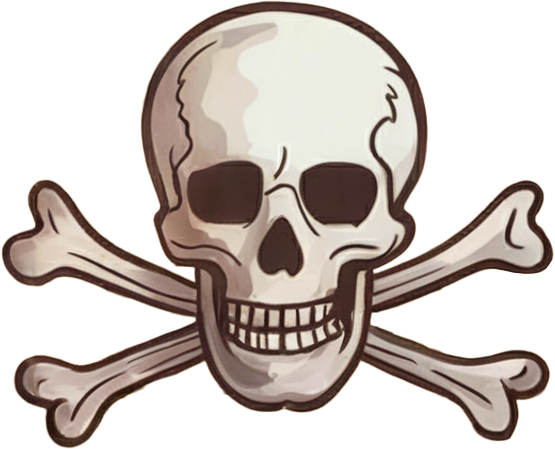
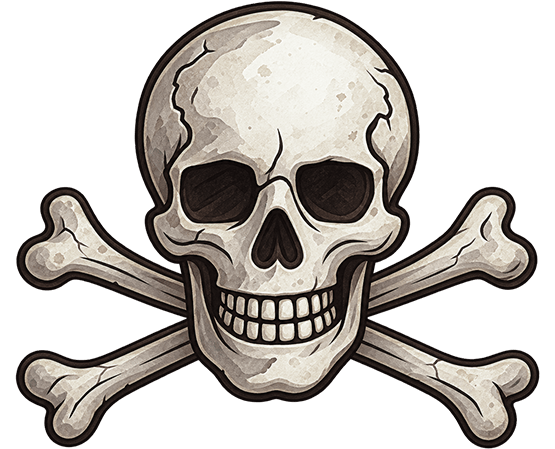
Bilingual update - English added

diff --git a/script.js b/script.js
@@ -18,15 +18,109 @@ document.addEventListener('DOMContentLoaded', () => {
   const restartBtnOverlay = document.getElementById('restart-btn-overlay');
   const confettiCanvas = document.getElementById('confetti-canvas');
 
-  // Ensure scoreboard has logo + players container (defensive)
-  ensureScoreboardShell();
+  // Language / setup refs
+  const languageToggle = document.getElementById('language-toggle');
+  const setupLogo = document.getElementById('setup-logo');
+  const difficultyLabel = document.getElementById('difficulty-label');
+  const difficultyEasy = document.getElementById('difficulty-easy');
+  const difficultyNormal = document.getElementById('difficulty-normal');
+  const playersLabel = document.getElementById('players-label');
+  const startBtn = document.getElementById('start-btn');
+  const languageEs = document.getElementById('language-es');
+  const languageEn = document.getElementById('language-en');
 
   // ---- Config ----
   const totalTiles = 36; // 6x6
-  // Assets (your latest versions)
   const trapImg  = '/treasure/images/skull-25.png';
   const chestImg = '/treasure/images/treasure-25.png';
-  const logoSrc  = '/treasure/images/logo.png';
+  const logos = {
+    es: '/treasure/images/logo-es.png',
+    en: '/treasure/images/logo-en.png'
+  };
+
+  const translations = {
+    es: {
+      title: 'Isla del Tesoro',
+      difficulty: 'Nivel:',
+      easy: 'Fácil (1-99)',
+      normal: 'Normal (100-999)',
+      players: 'Número de jugadores:',
+      player: 'Jugador',
+      start: 'Inicio',
+      restart: 'Jugar de nuevo',
+      fullscreen: 'Pantalla completa',
+      treasure: 'Tesoro',
+      trap: 'Trampa',
+      currency: '€',
+      singleTrapLoss: name => `¡Juego terminado! ${name} encontró una trampa y perdió.`,
+      winner: (name, score) => `¡Victoria! ${name} gana con €${score}`
+    },
+    en: {
+      title: 'Treasure Island',
+      difficulty: 'Difficulty:',
+      easy: 'Easy (1-99)',
+      normal: 'Normal (100-999)',
+      players: 'Number of players:',
+      player: 'Player',
+      start: 'Start',
+      restart: 'Play again',
+      fullscreen: 'Full screen',
+      treasure: 'Treasure',
+      trap: 'Trap',
+      currency: '£',
+      singleTrapLoss: name => `Game over! ${name} found a trap and lost.`,
+      winner: (name, score) => `Victory! ${name} wins with £${score}`
+    }
+  };
+
+  let currentLanguage = sessionStorage.getItem('treasureLanguage') === 'en' ? 'en' : 'es';
+
+  function t(key) {
+    return translations[currentLanguage][key];
+  }
+
+  function applyLanguage() {
+    const isEnglish = currentLanguage === 'en';
+    document.documentElement.lang = currentLanguage;
+    document.title = t('title');
+
+    if (languageToggle) {
+      languageToggle.checked = isEnglish;
+      languageToggle.setAttribute('aria-label', isEnglish ? 'Switch language to Spanish' : 'Switch language to English');
+    }
+    languageEs?.classList.toggle('active', !isEnglish);
+    languageEn?.classList.toggle('active', isEnglish);
+
+    if (difficultyLabel) difficultyLabel.textContent = t('difficulty');
+    if (difficultyEasy) difficultyEasy.textContent = t('easy');
+    if (difficultyNormal) difficultyNormal.textContent = t('normal');
+    if (playersLabel) playersLabel.textContent = t('players');
+    if (startBtn) startBtn.textContent = t('start');
+    if (restartBtnOverlay) restartBtnOverlay.textContent = t('restart');
+    if (fsBtn) fsBtn.title = t('fullscreen');
+
+    if (setupLogo) {
+      setupLogo.src = logos[currentLanguage];
+      setupLogo.alt = t('title');
+    }
+    const scoreLogo = scoreboard?.querySelector('.scoreboard-logo');
+    if (scoreLogo) {
+      scoreLogo.src = logos[currentLanguage];
+      scoreLogo.alt = t('title');
+    }
+
+    document.querySelectorAll('.player-name').forEach((input, i) => {
+      input.placeholder = `${t('player')} ${i + 1}`;
+    });
+
+    if (players.length) renderScoreboard();
+  }
+
+  languageToggle?.addEventListener('change', () => {
+    currentLanguage = languageToggle.checked ? 'en' : 'es';
+    sessionStorage.setItem('treasureLanguage', currentLanguage);
+    applyLanguage();
+  });
 
   // ---- Game state ----
   let trapCount = 0;
@@ -36,6 +130,10 @@ document.addEventListener('DOMContentLoaded', () => {
   let currentPlayerIndex = 0;
   let turns = 0;
   let gameEnded = false;
+
+  // Ensure scoreboard has logo + players container (defensive)
+  ensureScoreboardShell();
+  applyLanguage();
 
   // ---- Setup inputs ----
   generatePlayerNameFields(parseInt(playerCountDropdown.value, 10));
@@ -63,7 +161,7 @@ document.addEventListener('DOMContentLoaded', () => {
       const input = document.createElement('input');
       input.type = 'text';
       input.classList.add('player-name');
-      input.placeholder = `Jugador ${i + 1}`;
+      input.placeholder = `${t('player')} ${i + 1}`;
       playerNamesContainer.appendChild(input);
     }
   }
@@ -97,7 +195,7 @@ document.addEventListener('DOMContentLoaded', () => {
     const numPlayers = parseInt(playerCountDropdown.value, 10);
 
     players = Array.from(document.querySelectorAll('.player-name'), (input, i) => ({
-      name: input.value || `Jugador ${i + 1}`,
+      name: input.value || `${t('player')} ${i + 1}`,
       score: 0,
       skipTurn: false
     }));
@@ -141,7 +239,7 @@ document.addEventListener('DOMContentLoaded', () => {
 
     const list = players.map((p, i) =>
       `<div class="player ${i === currentPlayerIndex ? 'current-player' : ''} ${p.skipTurn ? 'skipping' : ''}">
-         ${p.name}: €${p.score}
+         ${p.name}: ${t('currency')}${p.score}
        </div>`
     ).join('');
 
@@ -151,7 +249,7 @@ document.addEventListener('DOMContentLoaded', () => {
     } else {
       // Fallback: ensure shell exists if missing
       scoreboard.innerHTML = `
-        <img src="${logoSrc}" alt="Isla del Tesoro" class="scoreboard-logo" />
+        <img src="${logos[currentLanguage]}" alt="${t('title')}" class="scoreboard-logo" />
         <div class="players">${list}</div>
       `;
     }
@@ -191,10 +289,10 @@ document.addEventListener('DOMContentLoaded', () => {
       const val = treasures[treasureIndices.indexOf(index)];
       players[currentPlayerIndex].score += val;
       tileBack.classList.add('treasure');
-      tileBack.innerHTML = `<img src="${chestImg}" alt="Tesoro" /><div class="value">€${val}</div>`;
+      tileBack.innerHTML = `<img src="${chestImg}" alt="${t('treasure')}" /><div class="value">${t('currency')}${val}</div>`;
     } else if (trapIndices.includes(index)) {
       tileBack.classList.add('trap');
-      tileBack.innerHTML = `<img src="${trapImg}" alt="Trampa" />`;
+      tileBack.innerHTML = `<img src="${trapImg}" alt="${t('trap')}" />`;
 
       if (players.length === 1) {
         tileElement.classList.add('flipped');
@@ -249,7 +347,7 @@ document.addEventListener('DOMContentLoaded', () => {
     if (isTrapLoss) {
       // Single player lost to trap
       if (resultTitle) resultTitle.textContent =
-        `¡Juego terminado! ${players[0].name} encontró una trampa y perdió.`;
+        t('singleTrapLoss')(players[0].name);
       showResultOverlay(false);
       return;
     }
@@ -257,7 +355,7 @@ document.addEventListener('DOMContentLoaded', () => {
     // Multi-player winner
     const winner = players.reduce((max, p) => (p.score > max.score ? p : max));
     if (resultTitle) resultTitle.textContent =
-      `¡Victoria! ${winner.name} gana con €${winner.score}`;
+      t('winner')(winner.name, winner.score);
     showResultOverlay(true);
   }
 
@@ -382,8 +480,8 @@ document.addEventListener('DOMContentLoaded', () => {
     if (!scoreboard.querySelector('.scoreboard-logo')) {
       const img = document.createElement('img');
       img.className = 'scoreboard-logo';
-      img.alt = 'Isla del Tesoro';
-      img.src = logoSrc;
+      img.alt = t('title');
+      img.src = logos[currentLanguage];
       scoreboard.prepend(img);
     }
     // Ensure players container

diff --git a/index.html b/index.html
@@ -3,7 +3,7 @@
 <head>
   <meta charset="UTF-8" />
   <meta name="viewport" content="width=device-width, initial-scale=1" />
-  <title>Isla del Tesoro — Responsive Fullscreen</title>
+  <title>Isla del Tesoro</title>
 <link href="https://fonts.googleapis.com/css2?family=Skranji:wght@400;700&display=swap" rel="stylesheet">
 <link href="https://fonts.googleapis.com/css2?family=Katibeh&display=swap" rel="stylesheet">
   <link rel="stylesheet" href="style.css" />
@@ -16,16 +16,26 @@
     <!-- Setup overlay -->
     <div id="game-setup">
 <div class="setup-container">
-  <img src="/treasure/images/logo.png"
-       alt="Isla del Tesoro" class="setup-logo" />
+  <img src="/treasure/images/logo-es.png"
+       alt="Isla del Tesoro" class="setup-logo" id="setup-logo" />
+
+  <div class="language-control">
+    <span class="language-name" id="language-es">Español</span>
+    <label class="language-switch" for="language-toggle">
+      <input type="checkbox" id="language-toggle" aria-label="Switch language to English" />
+      <span class="language-slider" aria-hidden="true"></span>
+    </label>
+    <span class="language-name" id="language-en">English</span>
+  </div>
+
   <form id="setup-form">
 
-          <label for="difficulty">Nivel:</label>
+          <label for="difficulty" id="difficulty-label">Nivel:</label>
           <select id="difficulty" name="difficulty" autofocus>
-            <option value="easy">Fácil (1-99)</option>
-            <option value="normal">Normal (100-999)</option>
+            <option value="easy" id="difficulty-easy">Fácil (1-99)</option>
+            <option value="normal" id="difficulty-normal">Normal (100-999)</option>
           </select>
-          <label for="num-players">Número de jugadores:</label>
+          <label for="num-players" id="players-label">Número de jugadores:</label>
           <select id="num-players">
             <option value="1">1</option>
             <option value="2">2</option>
@@ -49,7 +59,7 @@
             <option value="20">20</option>
           </select>
           <div id="player-names-container" class="player-names-container"></div>
-          <button type="submit">Inicio</button>
+          <button type="submit" id="start-btn">Inicio</button>
         </form>
       </div>
     </div>
@@ -61,8 +71,8 @@
       </section>
 <aside>
   <div id="scoreboard" class="scoreboard">
-    <img src="/treasure/images/logo.png"
-         alt="Isla del Tesoro" class="scoreboard-logo" />
+    <img src="/treasure/images/logo-es.png"
+         alt="Isla del Tesoro" class="scoreboard-logo" id="scoreboard-logo" />
     <div class="players"></div>
   </div>
 </aside>

diff --git a/style.css b/style.css
@@ -223,6 +223,72 @@ body {
   background: rgba(20,14,12,0.6);
 }
 
+
+/* Language switch */
+.language-control{
+  display: flex;
+  align-items: center;
+  justify-content: center;
+  gap: 12px;
+  margin: 2px 0 12px;
+  color: #eedba6;
+  font-family: "Katibeh", cursive;
+  font-size: clamp(24px, 3.2vmin, 32px);
+}
+.language-name{
+  min-width: 62px;
+  opacity: .65;
+  transition: opacity .2s ease, transform .2s ease;
+}
+.language-name.active{
+  opacity: 1;
+  transform: scale(1.04);
+}
+.language-switch{
+  position: relative;
+  display: inline-block;
+  width: 58px;
+  height: 30px;
+  margin: 0 !important;
+  flex: 0 0 auto;
+}
+.language-switch input{
+  position: absolute;
+  opacity: 0;
+  width: 1px;
+  height: 1px;
+  margin: 0;
+}
+.language-slider{
+  position: absolute;
+  inset: 0;
+  cursor: pointer;
+  border-radius: 999px;
+  background: rgba(20,14,12,.55);
+  border: 1px solid rgba(238,219,166,.5);
+  box-shadow: inset 0 1px 3px rgba(0,0,0,.35);
+  transition: .2s ease;
+}
+.language-slider::before{
+  content: "";
+  position: absolute;
+  width: 22px;
+  height: 22px;
+  left: 3px;
+  top: 3px;
+  border-radius: 50%;
+  background: linear-gradient(180deg, #f9e7b0 0%, #eedba6 55%, #d1b48b 100%);
+  box-shadow: 0 2px 5px rgba(0,0,0,.35);
+  transition: transform .2s ease;
+}
+.language-switch input:checked + .language-slider::before{
+  transform: translateX(28px);
+}
+.language-switch input:focus-visible + .language-slider{
+  outline: 3px solid rgba(238,219,166,.3);
+  outline-offset: 3px;
+}
+
 /* Gold 3D buttons (dark text) */
 .setup-container button,
 .restart-btn{
